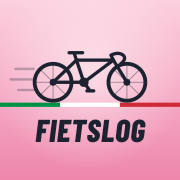
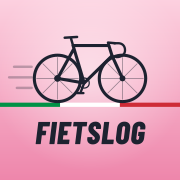
Add files via upload
meerdere landen

Changed region(s): [[0.0278, 0.1944, 0.8333, 0.5833], [0.1944, 0.6389, 0.8333, 0.8056]]

diff --git a/src/routes/index.tsx b/src/routes/index.tsx
@@ -9,6 +9,7 @@ import { Inloggen } from "@/components/Inloggen";
 import { Importeren } from "@/components/Importeren";
 import { getThema, setThema, type Thema } from "@/lib/thema";
 import { authPost, getStatus, NietIngelogd, onthoudSessie, onthoudenSessie, vergeetSessie } from "@/lib/auth";
+import { KLASSIEKERS, LANDEN, getLand, setLand, type Land } from "@/lib/land";
 import { InstallPopup } from "@/components/InstallPopup";
 import { installatieAlGetoond, isGeinstalleerd, kanDirectInstalleren, onthoudInstallatieGetoond, platform } from "@/lib/installeren";
 import { aantalWachtend, lokaleRitten, plaatsInWachtrij, plaatsLeegInWachtrij, synchroniseer, wisLokaleData } from "@/lib/sync";
@@ -90,6 +91,8 @@ function Ritlog({ naam, onVerlopen, onUitloggen }: { naam: string | null; onVerl
   const [wachtend, setWachtend] = useState(() => aantalWachtend());
   const offlineGeweest = useRef(false);
   const [installOpen, setInstallOpen] = useState(false);
+  const [land, setLandKeuze] = useState<Land>("it");
+  useEffect(() => { setLandKeuze(getLand()); }, []);
   // Bij het eerste bezoek (alleen op gsm/tablet in de browser) één keer uitleggen hoe je de app installeert.
   useEffect(() => {
     if (installatieAlGetoond() || isGeinstalleerd()) return;
@@ -166,8 +169,8 @@ function Ritlog({ naam, onVerlopen, onUitloggen }: { naam: string | null; onVerl
         {tab === "nieuw" && <RitFormulier titel="Nieuwe rit" opslaanTekst="Rit opslaan" onSave={(r) => { update([r, ...rides]); toast.success("Rit opgeslagen!"); setTab("ritten"); }} />}
         {tab === "ritten" && <Ritten rides={rides} onDelete={(id) => update(rides.filter((r) => r.id !== id))} onEdit={(r) => { update(rides.map((x) => (x.id === r.id ? r : x))); toast.success("Rit bijgewerkt"); }} />}
         {tab === "grafieken" && <Grafieken rides={rides} />}
-        {tab === "overzicht" && <Overzicht rides={rides} />}
-        {tab === "instellingen" && <Instellingen naam={naam} rides={rides} onImport={(nieuw) => { update([...rides, ...nieuw], true); setTab("ritten"); }} onUitloggen={uitloggen} onInstalleren={() => setInstallOpen(true)} onWisAlles={wisAlles} />}
+        {tab === "overzicht" && <Overzicht rides={rides} land={land} />}
+        {tab === "instellingen" && <Instellingen naam={naam} rides={rides} onImport={(nieuw) => { update([...rides, ...nieuw], true); setTab("ritten"); }} onUitloggen={uitloggen} onInstalleren={() => setInstallOpen(true)} onWisAlles={wisAlles} land={land} onLand={(l) => { setLand(l); setLandKeuze(l); }} />}
       </main>
       <nav className="nav-bar fixed inset-x-0 bottom-0 border-t border-white/10">
         <div className="mx-auto grid max-w-md grid-cols-4 md:max-w-2xl px-2 pt-2 pb-1">
@@ -240,7 +243,7 @@ const THEMAS = [
   { v: "donker", Icon: Moon, l: "Donker" },
 ] as const;
 
-function Instellingen({ naam, rides, onImport, onUitloggen, onInstalleren, onWisAlles }: { naam: string | null; rides: Ride[]; onImport: (nieuw: Ride[]) => void; onUitloggen: () => void; onInstalleren: () => void; onWisAlles: () => void }) {
+function Instellingen({ naam, rides, onImport, onUitloggen, onInstalleren, onWisAlles, land, onLand }: { land: Land; onLand: (l: Land) => void; naam: string | null; rides: Ride[]; onImport: (nieuw: Ride[]) => void; onUitloggen: () => void; onInstalleren: () => void; onWisAlles: () => void }) {
   const [importOpen, setImportOpen] = useState(false);
   const [themaKeuze, setThemaKeuze] = useState<Thema>("systeem");
   useEffect(() => { setThemaKeuze(getThema()); }, []);
@@ -248,6 +251,14 @@ function Instellingen({ naam, rides, onImport, onUitloggen, onInstalleren, onWis
   return <>
     <Card title="Instellingen">
       {naam && <p className="text-sm text-muted-foreground">Ingelogd als <b className="text-foreground">{naam}</b></p>}
+    </Card>
+    <Card title="Land">
+      <div className="grid grid-cols-3 gap-2">
+        {LANDEN.map(({ v, vlag, naam: n }) => (
+          <button key={v} type="button" onClick={() => onLand(v)} aria-pressed={land === v} className={`chip ${land === v ? "chip-on" : ""}`}><span className="text-2xl leading-none">{vlag}</span>{n}</button>
+        ))}
+      </div>
+      <p className="mt-2 text-xs text-muted-foreground">{LANDEN.find((l) => l.v === land)?.omschrijving}</p>
     </Card>
     <Card title="Achtergrond">
       <div className="grid grid-cols-3 gap-2">
@@ -361,25 +372,61 @@ function samenvat(rs: Ride[]) {
 }
 const datumKort = (d: string) => new Date(d).toLocaleDateString("nl-BE", { day: "numeric", month: "short", year: "numeric" });
 
-function Truien({ rs }: { rs: Ride[] }) {
+const TRUIEN: Record<Land, { naam: string; kleur: string; banden?: string[]; bandVan?: number; bandTot?: number; bolletjes?: boolean }[]> = {
+  it: [{ naam: "Roze trui", kleur: "#f4a3c1" }, { naam: "Ciclamino-trui", kleur: "#b0489f" }, { naam: "Blauwe trui", kleur: "#3f7fe0" }],
+  fr: [{ naam: "Gele trui", kleur: "#ffd60a" }, { naam: "Groene trui", kleur: "#2faa5f" }, { naam: "Bolletjestrui", kleur: "#ffffff", bolletjes: true }],
+  be: [
+    { naam: "Kampioenstrui", kleur: "#1a1a1a", banden: ["#1a1a1a", "#fdda24", "#ef3340"] },
+    { naam: "Regenboogtrui", kleur: "#ffffff", banden: ["#0085c7", "#f4c300", "#1a1a1a", "#009f3d", "#df0024"], bandVan: 22, bandTot: 36 },
+    { naam: "Gele trui", kleur: "#ffd60a" },
+  ],
+};
+
+function Truien({ rs, land }: { rs: Ride[]; land: Land }) {
   if (!rs.length) return null;
   const langste = rs.reduce((a, b) => (b.km > a.km ? b : a));
   const snelste = rs.reduce((a, b) => (snelheid(b.km, b.minuten) > snelheid(a.km, a.minuten) ? b : a));
   const perMaand = MAANDEN.map((m, i) => ({ m, km: rs.filter((r) => r.datum.slice(5, 7) === String(i + 1).padStart(2, "0")).reduce((s, r) => s + r.km, 0) }));
   const bergkoning = perMaand.reduce((a, b) => (b.km > a.km ? b : a));
   const rij = "flex items-center gap-3 border-t border-border py-3 first:border-t-0 first:pt-0 last:pb-0";
+  const kop = "text-xs font-bold uppercase tracking-wider text-muted-foreground";
+  const klein = "text-sm font-semibold not-italic text-muted-foreground";
+  const [t1, t2, t3] = TRUIEN[land];
   return (
     <Card title="Truien">
       <div>
-        <div className={rij}><Trui kleur="#f4a3c1" className="h-12 w-12 shrink-0" /><div><p className="text-xs font-bold uppercase tracking-wider text-muted-foreground">Roze trui · langste rit</p><p className="font-display text-2xl leading-tight">{langste.km.toFixed(1)} km <span className="text-sm font-semibold not-italic text-muted-foreground">{datumKort(langste.datum)}</span></p></div></div>
-        <div className={rij}><Trui kleur="#2faa5f" className="h-12 w-12 shrink-0" /><div><p className="text-xs font-bold uppercase tracking-wider text-muted-foreground">Groene trui · snelste rit</p><p className="font-display text-2xl leading-tight">{snelheid(snelste.km, snelste.minuten).toFixed(1)} km/u <span className="text-sm font-semibold not-italic text-muted-foreground">{datumKort(snelste.datum)}</span></p></div></div>
-        <div className={rij}><Trui kleur="#3f7fe0" className="h-12 w-12 shrink-0" /><div><p className="text-xs font-bold uppercase tracking-wider text-muted-foreground">Blauwe trui · beste maand</p><p className="font-display text-2xl leading-tight">{bergkoning.km.toFixed(0)} km <span className="text-sm font-semibold not-italic text-muted-foreground">in {bergkoning.m}</span></p></div></div>
+        <div className={rij}><Trui {...t1!} className="h-12 w-12 shrink-0" /><div><p className={kop}>{t1!.naam} · langste rit</p><p className="font-display text-2xl leading-tight">{langste.km.toFixed(1)} km <span className={klein}>{datumKort(langste.datum)}</span></p></div></div>
+        <div className={rij}><Trui {...t2!} className="h-12 w-12 shrink-0" /><div><p className={kop}>{t2!.naam} · snelste rit</p><p className="font-display text-2xl leading-tight">{snelheid(snelste.km, snelste.minuten).toFixed(1)} km/u <span className={klein}>{datumKort(snelste.datum)}</span></p></div></div>
+        <div className={rij}><Trui {...t3!} className="h-12 w-12 shrink-0" /><div><p className={kop}>{t3!.naam} · beste maand</p><p className="font-display text-2xl leading-tight">{bergkoning.km.toFixed(0)} km <span className={klein}>in {bergkoning.m}</span></p></div></div>
       </div>
     </Card>
   );
 }
 
-function Overzicht({ rides }: { rides: Ride[] }) {
+/** Je kilometers afgezet tegen de klassiekers van het gekozen land. */
+function Klassiekers({ km, jaar, land }: { km: number; jaar: number; land: Land }) {
+  if (km <= 0) return null;
+  const fmt = (x: number) => x.toFixed(1).replace(".", ",");
+  return (
+    <Card title="Klassiekers">
+      <p className="mb-3 text-sm text-muted-foreground">Je <b className="text-foreground">{Math.round(km)} km</b> in {jaar} is goed voor:</p>
+      <div>
+        {KLASSIEKERS[land].map((k) => (
+          <div key={k.naam} className="flex items-center justify-between gap-3 border-t border-border py-3 first:border-t-0 first:pt-0 last:pb-0">
+            <div className="min-w-0">
+              <p className="font-display text-xl leading-tight">{k.naam}</p>
+              <p className="text-xs text-muted-foreground">{k.bijnaam} · {k.km} km</p>
+            </div>
+            <p className="font-display shrink-0 text-3xl leading-none">{fmt(km / k.km)}<span className="ml-0.5 text-lg text-muted-foreground">×</span></p>
+          </div>
+        ))}
+      </div>
+      <p className="mt-2 text-[11px] text-muted-foreground">Afstanden van de edities 2026 (mannen).</p>
+    </Card>
+  );
+}
+
+function Overzicht({ rides, land }: { rides: Ride[]; land: Land }) {
   const jaren = useMemo(() => [...new Set([new Date().getFullYear(), ...rides.map((r) => +r.datum.slice(0, 4))])].sort((a, b) => b - a), [rides]);
   const [jaar, setJaar] = useState(jaren[0]!);
   const rj = rides.filter((r) => r.datum.startsWith(String(jaar)));
@@ -393,7 +440,8 @@ function Overzicht({ rides }: { rides: Ride[] }) {
         <Stat l="Langste rit" v={`${s.langste.toFixed(1)} km`} /><Stat l="Gem. per rit" v={`${s.n ? (s.km / s.n).toFixed(1) : 0} km`} />
       </div>
     </Card>
-    <Truien rs={rj} />
+    <Truien rs={rj} land={land} />
+    <Klassiekers km={s.km} jaar={jaar} land={land} />
     <Card title="Per maand">
       <table className="w-full text-sm"><thead><tr className="text-left text-xs uppercase tracking-wider text-muted-foreground"><th className="py-1">Maand</th><th>Ritten</th><th>km</th><th>Tijd</th><th>km/u</th></tr></thead>
         <tbody>{MAANDEN.map((m, i) => { const x = samenvat(rj.filter((r) => r.datum.slice(5, 7) === String(i + 1).padStart(2, "0"))); return (

diff --git a/src/styles.css b/src/styles.css
@@ -76,7 +76,7 @@
 
 /*
  * Wielrenthema "Fietslog" – Italiaanse editie
- * maglia rosa (roze) · tricolore (groen-wit-rood) · asfalt (zwart-blauw)
+ * Landenthema: Italië (standaard: maglia rosa + tricolore), Frankrijk, België · asfalt (zwart-blauw)
  */
 :root {
   --radius: 0.9rem;
@@ -87,8 +87,9 @@
   --groen: oklch(0.62 0.17 150);
   --oranje: oklch(0.72 0.17 58);
   --rosa: oklch(0.8 0.12 4);
-  --it-groen: oklch(0.52 0.14 155);
-  --it-rood: oklch(0.55 0.21 25);
+  --vlag-1: #009246;
+  --vlag-2: #ffffff;
+  --vlag-3: #ce2b37;
   --hero-1: oklch(0.945 0.04 5);
   --hero-2: oklch(0.87 0.09 5);
   --hero-fg: oklch(0.22 0.02 262);
@@ -217,7 +218,7 @@
   .hero-band {
     position: relative;
     background:
-      linear-gradient(115deg, transparent 0 62%, oklch(0.52 0.14 155 / 12%) 62% 70%, transparent 70% 76%, oklch(0.55 0.21 25 / 14%) 76% 82%, transparent 82%),
+      linear-gradient(115deg, transparent 0 62%, color-mix(in oklab, var(--vlag-1) 12%, transparent) 62% 70%, transparent 70% 76%, color-mix(in oklab, var(--vlag-3) 14%, transparent) 76% 82%, transparent 82%),
       linear-gradient(180deg, var(--hero-1), var(--hero-2));
     color: var(--hero-fg);
     padding-top: calc(env(safe-area-inset-top, 0px) + 1.25rem);
@@ -227,7 +228,7 @@
   /* Tricolore-streep: groen · wit · rood */
   .hero-band::after {
     content: ""; position: absolute; left: 0; right: 0; bottom: 14px; height: 5px;
-    background: repeating-linear-gradient(90deg, #009246 0 24px, #ffffff 24px 48px, #ce2b37 48px 72px);
+    background: repeating-linear-gradient(90deg, var(--vlag-1) 0 24px, var(--vlag-2) 24px 48px, var(--vlag-3) 48px 72px);
     opacity: .9;
   }
 
@@ -248,7 +249,7 @@
   .rit-kaart { position: relative; overflow: hidden; padding-left: 1.6rem; }
   .rit-kaart::before { content: ""; position: absolute; inset: 0 auto 0 0; width: .6rem; background: var(--strook, var(--geel)); }
 
-  .kop-streep { display: inline-block; width: .5rem; height: 1.15rem; margin-right: 1.15rem; background: var(--it-groen); transform: skewX(-18deg); border-radius: 2px; vertical-align: -2px; box-shadow: .4rem 0 0 oklch(0.98 0 0), .4rem 0 0 1px var(--border), .8rem 0 0 var(--it-rood); }
+  .kop-streep { display: inline-block; width: .5rem; height: 1.15rem; margin-right: 1.15rem; background: var(--vlag-1); transform: skewX(-18deg); border-radius: 2px; vertical-align: -2px; box-shadow: .4rem 0 0 var(--vlag-2), .4rem 0 0 1px var(--border), .8rem 0 0 var(--vlag-3); }
 
   .chip { display:flex; flex-direction:column; align-items:center; gap:.25rem; padding:.65rem .25rem; border-radius:.9rem; border:2px solid var(--border); background:var(--background); font-size:.8rem; font-weight:600; color:var(--foreground); transition: transform .08s; }
   .chip:active { transform: scale(.97); }
@@ -273,3 +274,27 @@
   .fiets-rijdt, .fiets-wip, .draai { animation: none; }
   .fiets-rijdt { transform: translateX(calc(100cqw - 115%)); }
 }
+
+/* ── Landenthema's (Italië is de standaard hierboven) ── */
+:root[data-land="fr"] {
+  --vlag-1: #0055a4; --vlag-2: #ffffff; --vlag-3: #ef4135;
+  --rosa: oklch(0.82 0.1 245);
+  --hero-1: oklch(0.96 0.025 245); --hero-2: oklch(0.88 0.07 245);
+  --hero-fg: oklch(0.22 0.02 262); --hero-accent: oklch(0.42 0.15 258);
+}
+:root[data-land="be"] {
+  --vlag-1: #1a1a1a; --vlag-2: #fdda24; --vlag-3: #ef3340;
+  --rosa: oklch(0.88 0.175 95);
+  --hero-1: oklch(0.965 0.045 98); --hero-2: oklch(0.89 0.12 95);
+  --hero-fg: oklch(0.22 0.02 262); --hero-accent: oklch(0.3 0.02 262);
+}
+@media (prefers-color-scheme: dark) {
+  :root[data-land="fr"]:not([data-theme="licht"]):not([data-theme="donker"]) {
+    --hero-1: oklch(0.46 0.1 255); --hero-2: oklch(0.36 0.09 255); --hero-fg: oklch(0.98 0.01 95); --hero-accent: oklch(0.9 0.08 250);
+  }
+  :root[data-land="be"]:not([data-theme="licht"]):not([data-theme="donker"]) {
+    --hero-1: oklch(0.43 0.03 262); --hero-2: oklch(0.33 0.025 262); --hero-fg: oklch(0.98 0.01 95); --hero-accent: oklch(0.9 0.16 95);
+  }
+}
+:root[data-land="fr"][data-theme="donker"] { --hero-1: oklch(0.46 0.1 255); --hero-2: oklch(0.36 0.09 255); --hero-fg: oklch(0.98 0.01 95); --hero-accent: oklch(0.9 0.08 250); }
+:root[data-land="be"][data-theme="donker"] { --hero-1: oklch(0.43 0.03 262); --hero-2: oklch(0.33 0.025 262); --hero-fg: oklch(0.98 0.01 95); --hero-accent: oklch(0.9 0.16 95); }

diff --git a/src/components/Fiets.tsx b/src/components/Fiets.tsx
@@ -1,27 +1,36 @@
 // Getekende racefiets (lijnen in currentColor) en trui-icoon voor de trofeeën.
+// Wielerfiets met realistische verhoudingen (wielbasis ~98 cm, zadelbuis 73,5°, balhoofd 73°, krukas iets onder de naven).
 // rijdt: wielen en trapas draaien rustig (alleen als de gebruiker geen "minder beweging" heeft ingesteld).
+const spaken = (cx: number) => `M${cx} 45 V99 M${cx - 27} 72 H${cx + 27} M${cx - 19} 53 L${cx + 19} 91 M${cx + 19} 53 L${cx - 19} 91`;
 export function Fiets({ className = "", rijdt = false }: { className?: string; rijdt?: boolean }) {
   const draai = rijdt ? "draai" : undefined;
-  const spaken = (cx: number) => `M${cx} 42 V102 M${cx - 30} 72 H${cx + 30} M${cx - 21} 51 L${cx + 21} 93 M${cx + 21} 51 L${cx - 21} 93`;
   return (
-    <svg viewBox="0 0 200 110" className={className} fill="none" stroke="currentColor" strokeWidth="4.5" strokeLinecap="round" strokeLinejoin="round" aria-hidden="true">
-      <g className={draai} style={{ transformOrigin: "40px 72px" }}><circle cx="40" cy="72" r="30" /><path d={spaken(40)} strokeWidth="1.2" opacity=".5" /></g>
-      <g className={draai} style={{ transformOrigin: "160px 72px" }}><circle cx="160" cy="72" r="30" /><path d={spaken(160)} strokeWidth="1.2" opacity=".5" /></g>
-      <path d="M40 72 L90 72 L78 36 Z" /><path d="M78 36 L138 36 L90 72" /><path d="M138 36 L160 72" />
-      <path d="M78 36 L74 24 M66 24 L88 24" />
-      <path d="M138 36 L134 28 M134 28 Q146 22 154 28 Q160 34 150 42" />
-      <circle cx="90" cy="72" r="5" />
-      <g className={draai} style={{ transformOrigin: "90px 72px" }}><path d="M90 72 L100 86 M95 86 L106 86" /></g>
+    <svg viewBox="-2 14 148 94" className={className} fill="none" stroke="currentColor" strokeWidth="4" strokeLinecap="round" strokeLinejoin="round" aria-hidden="true">
+      <g className={draai} style={{ transformOrigin: "30px 72px" }}><circle cx="30" cy="72" r="30" /><path d={spaken(30)} strokeWidth="1" opacity=".5" /></g>
+      <g className={draai} style={{ transformOrigin: "114px 72px" }}><circle cx="114" cy="72" r="30" /><path d={spaken(114)} strokeWidth="1" opacity=".5" /></g>
+      <path d="M64.5 78.0 L50.1 29.5 L96.4 29.5 L100.5 42.7 L64.5 78.0 M100.5 42.7 L96.4 29.5 M51.3 33.4 L30.0 72.0 L64.5 78.0" />
+      <path d="M100.5 42.7 L114.0 72.0" />
+      <path d="M50.1 29.5 L47.3 19.9 M39.3 19.4 L55.3 18.4" strokeWidth="3.2" />
+      <path d="M96.4 29.5 L95.3 25.7 L104.3 26.5" strokeWidth="3.2" />
+      <path d="M103.3 26.5 H108.3 C114.3 26.5 117.3 30.5 117.3 35.5 C117.3 41.5 112.3 44.5 106.3 44.5" strokeWidth="3" />
+      <circle cx="64.5" cy="78" r="6.5" strokeWidth="1.6" />
+      <g className={draai} style={{ transformOrigin: "64.5px 78px" }}><path d="M64.5 78.0 L59.5 91.0 M55.5 91.0 H63.5" strokeWidth="3" /></g>
+      <circle cx="30" cy="72" r="3.5" strokeWidth="1.6" />
     </svg>
   );
 }
 
-export function Trui({ kleur, bolletjes = false, className = "" }: { kleur: string; bolletjes?: boolean; className?: string }) {
+export function Trui({ kleur, bolletjes = false, banden, bandVan = 6, bandTot = 58, className = "" }: { kleur: string; bolletjes?: boolean; banden?: string[]; bandVan?: number; bandTot?: number; className?: string }) {
   const d = "M22 6 L8 14 L2 30 L14 34 L16 28 L16 58 L48 58 L48 28 L50 34 L62 30 L56 14 L42 6 Q32 16 22 6Z";
   return (
     <svg viewBox="0 0 64 64" className={className} aria-hidden="true">
       <defs><clipPath id="trui-clip"><path d={d} /></clipPath></defs>
       <path d={d} fill={kleur} />
+      {banden && (
+        <g clipPath="url(#trui-clip)">
+          {banden.map((c, i) => { const h = (bandTot - bandVan) / banden.length; return <rect key={`${c}-${i}`} x="0" y={bandVan + i * h} width="64" height={h + 0.3} fill={c} />; })}
+        </g>
+      )}
       {bolletjes && (
         <g clipPath="url(#trui-clip)" fill="#e5322d">
           {[[14,18],[30,24],[46,18],[22,38],[40,40],[30,54],[52,52],[10,50]].map(([x, y]) => <circle key={`${x}-${y}`} cx={x} cy={y} r="4.2" />)}

diff --git a/src/test/land.test.tsx b/src/test/land.test.tsx
@@ -1,0 +1,46 @@
+import { cleanup, fireEvent, render, screen } from "@testing-library/react";
+import { afterEach, beforeEach, describe, expect, it, vi } from "vitest";
+import { Route } from "@/routes/index";
+import { getLand, KLASSIEKERS, setLand } from "@/lib/land";
+
+const jaar = new Date().getFullYear();
+const ritten = [{ id: "a", datum: `${jaar}-01-10`, km: 298, minuten: 600, opmerking: "", weer: "", gevoel: "" }, { id: "b", datum: `${jaar}-01-12`, km: 298, minuten: 600, opmerking: "", weer: "", gevoel: "" }];
+
+describe("landenthema", () => {
+  beforeEach(() => {
+    localStorage.clear(); document.documentElement.removeAttribute("data-land");
+    Element.prototype.scrollIntoView = vi.fn();
+    vi.stubGlobal("fetch", vi.fn(async (url: string) => {
+      const json = (d: unknown) => new Response(JSON.stringify(d), { status: 200, headers: { "content-type": "application/json" } });
+      if (url === "/api/auth/status") return json({ ingesteld: true, ingelogd: true, gebruikersnaam: "jan" });
+      return json(ritten);
+    }));
+  });
+  afterEach(() => { cleanup(); vi.unstubAllGlobals(); });
+
+  it("bewaart de keuze en zet het attribuut op de pagina", () => {
+    expect(getLand()).toBe("it");
+    setLand("fr");
+    expect(getLand()).toBe("fr");
+    expect(document.documentElement.getAttribute("data-land")).toBe("fr");
+    setLand("it");
+    expect(document.documentElement.hasAttribute("data-land")).toBe(false);
+  });
+
+  it("kent per land minstens twee klassiekers", () => {
+    for (const l of ["be", "fr", "it"] as const) expect(KLASSIEKERS[l].length).toBeGreaterThanOrEqual(2);
+  });
+
+  it("toont in Overzicht de klassiekers van Italië, en van België na het kiezen", async () => {
+    const App = Route.options.component!;
+    render(<App />);
+    fireEvent.click(await screen.findByText("Overzicht", { selector: "nav button" }));
+    expect(await screen.findByText("Milaan–Sanremo")).toBeInTheDocument();
+    expect(screen.getByText("2,0")).toBeInTheDocument(); // 596 km / 298 km
+    fireEvent.click(screen.getByLabelText("Instellingen"));
+    fireEvent.click(await screen.findByRole("button", { name: /België/ }));
+    fireEvent.click(screen.getByText("Overzicht", { selector: "nav button" }));
+    expect(await screen.findByText("Ronde van Vlaanderen")).toBeInTheDocument();
+    expect(document.documentElement.getAttribute("data-land")).toBe("be");
+  });
+});

diff --git a/src/lib/land.ts b/src/lib/land.ts
@@ -1,0 +1,37 @@
+// Landenthema: kleuren, truien en klassiekers per wielerland. Naast licht/donker (zie thema.ts) kies je een land.
+export type Land = "be" | "fr" | "it";
+const KEY = "fietslog-land";
+
+export const LANDEN: { v: Land; vlag: string; naam: string; omschrijving: string }[] = [
+  { v: "be", vlag: "🇧🇪", naam: "België", omschrijving: "Zwart-geel-rood · Ronde van Vlaanderen, Luik–Bastenaken–Luik, Parijs–Roubaix" },
+  { v: "fr", vlag: "🇫🇷", naam: "Frankrijk", omschrijving: "Blauw-wit-rood · Tour de France, Parijs–Roubaix" },
+  { v: "it", vlag: "🇮🇹", naam: "Italië", omschrijving: "Groen-wit-rood en maglia rosa · Giro d’Italia, Milaan–Sanremo, Il Lombardia" },
+];
+
+/** Afstanden van de edities 2026 (km), afgerond. */
+export const KLASSIEKERS: Record<Land, { naam: string; km: number; bijnaam: string }[]> = {
+  be: [
+    { naam: "Ronde van Vlaanderen", km: 279, bijnaam: "Vlaanderens Mooiste" },
+    { naam: "Luik–Bastenaken–Luik", km: 259, bijnaam: "La Doyenne" },
+    { naam: "Parijs–Roubaix", km: 258, bijnaam: "Hel van het Noorden" },
+  ],
+  fr: [
+    { naam: "Parijs–Roubaix", km: 258, bijnaam: "Hel van het Noorden" },
+    { naam: "Tour de France", km: 3333, bijnaam: "La Grande Boucle" },
+  ],
+  it: [
+    { naam: "Milaan–Sanremo", km: 298, bijnaam: "La Classicissima" },
+    { naam: "Il Lombardia", km: 239, bijnaam: "Klassieker van de vallende bladeren" },
+    { naam: "Giro d’Italia", km: 3459, bijnaam: "La Corsa Rosa" },
+  ],
+};
+
+export function getLand(): Land {
+  try { const l = localStorage.getItem(KEY); return l === "be" || l === "fr" ? l : "it"; } catch { return "it"; }
+}
+/** Bewaart de keuze op dit toestel en past ze meteen toe. Italië is de standaard (geen attribuut nodig). */
+export function setLand(l: Land) {
+  try { if (l === "it") localStorage.removeItem(KEY); else localStorage.setItem(KEY, l); } catch { /* opslag geblokkeerd */ }
+  const root = document.documentElement;
+  if (l === "it") root.removeAttribute("data-land"); else root.setAttribute("data-land", l);
+}

diff --git a/src/routes/__root.tsx b/src/routes/__root.tsx
@@ -87,7 +87,7 @@ export const Route = createRootRouteWithContext<{ queryClient: QueryClient }>()(
       { name: "apple-mobile-web-app-status-bar-style", content: "default" },
     ],
     // Thema (licht/donker) vóór het tekenen toepassen, zodat er geen flits is
-    scripts: [{ children: `try{var t=localStorage.getItem("fietslog-thema");if(t==="licht"||t==="donker")document.documentElement.setAttribute("data-theme",t)}catch(e){}` }],
+    scripts: [{ children: `try{var t=localStorage.getItem("fietslog-thema");if(t==="licht"||t==="donker")document.documentElement.setAttribute("data-theme",t)var l=localStorage.getItem("fietslog-land");if(l==="be"||l==="fr")document.documentElement.setAttribute("data-land",l)}catch(e){}` }],
     links: [
       { rel: "stylesheet", href: appCss },
       { rel: "preconnect", href: "https://fonts.googleapis.com" },
